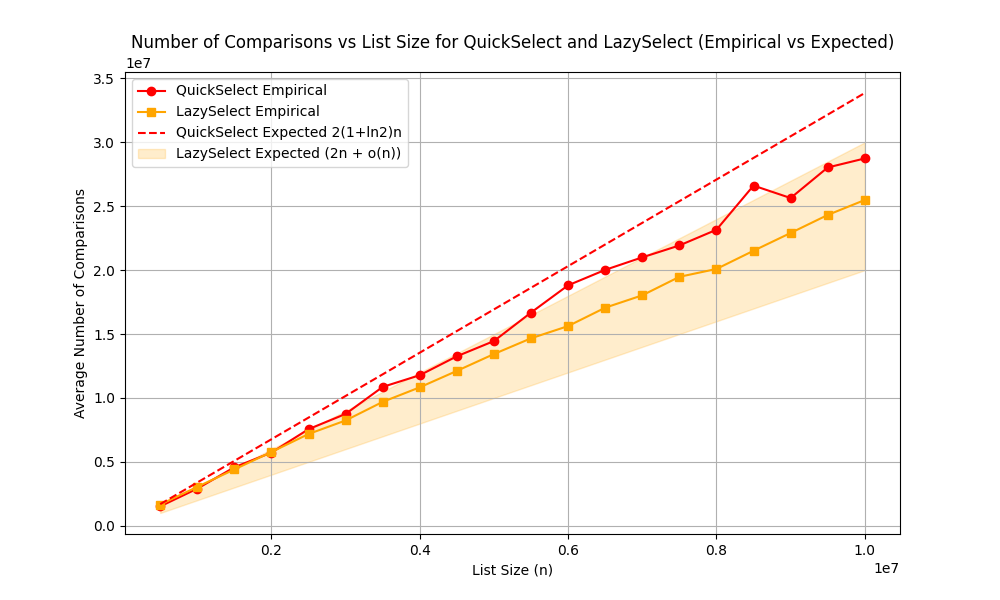
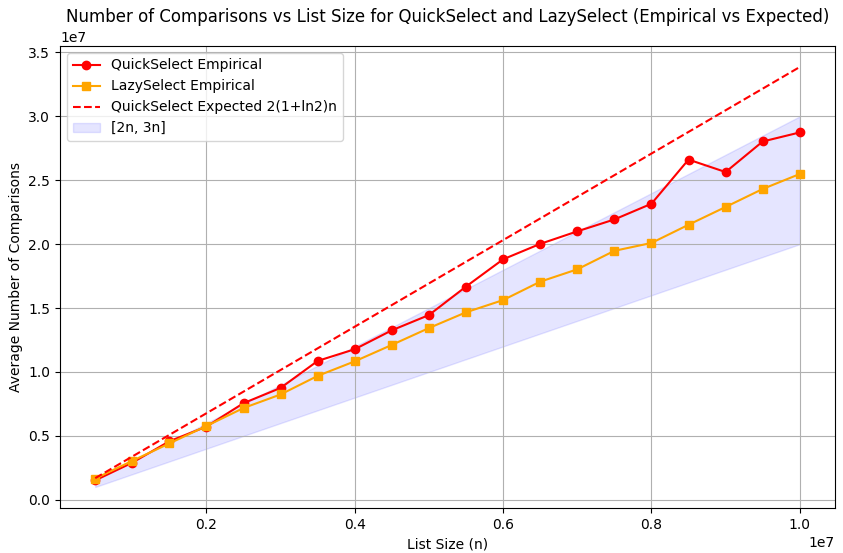
:bento: :sparkles:

diff --git a/assignment_1_selection/src/plot_k_comparisons.py b/assignment_1_selection/src/plot_k_comparisons.py
@@ -29,48 +29,48 @@ plt.figure(figsize=(10, 6))
 
 # QuickSelect area for standard deviation
 plt.fill_between(
-    k_values,
-    quickselect_lower_bound,
-    quickselect_upper_bound,
-    color="red",
-    alpha=0.2,
-    label="QuickSelect Standard Deviation Area",
+	k_values,
+	quickselect_lower_bound,
+	quickselect_upper_bound,
+	color="red",
+	alpha=0.2,
+	label="QuickSelect Standard Deviation Area",
 )
 
 # LazySelect area for standard deviation
 plt.fill_between(
-    k_values,
-    lazyselect_lower_bound,
-    lazyselect_upper_bound,
-    color="orange",
-    alpha=0.2,
-    label="LazySelect Standard Deviation Area",
+	k_values,
+	lazyselect_lower_bound,
+	lazyselect_upper_bound,
+	color="orange",
+	alpha=0.2,
+	label="LazySelect Standard Deviation Area",
 )
 
 # Plot mean comparisons for QuickSelect and LazySelect
 plt.plot(
-    k_values,
-    quickselect_avg_by_k.values,
-    label="QuickSelect Mean Comparisons",
-    marker="o",
-    color="red",
-    markersize=3,
-    linestyle="None",
+	k_values,
+	quickselect_avg_by_k.values,
+	label="QuickSelect Mean Comparisons",
+	marker="o",
+	color="red",
+	markersize=3,
+	linestyle="None",
 )
 plt.plot(
-    k_values,
-    lazyselect_avg_by_k.values,
-    label="LazySelect Mean Comparisons",
-    marker="o",
-    color="orange",
-    markersize=3,
-    linestyle="None",
+	k_values,
+	lazyselect_avg_by_k.values,
+	label="LazySelect Mean Comparisons",
+	marker="o",
+	color="orange",
+	markersize=3,
+	linestyle="None",
 )
 
 plt.xlabel("k")
 plt.ylabel("Mean Number of Comparisons")
 plt.title(
-    "Mean Comparisons per k for QuickSelect and LazySelect with Standard Deviation Area"
+	"Mean Comparisons per k for QuickSelect and LazySelect with Standard Deviation Area"
 )
 plt.legend()
 plt.grid(True)

diff --git a/assignment_1_selection/src/plot_comparisons.py b/assignment_1_selection/src/plot_comparisons.py
@@ -24,7 +24,7 @@ list_sizes = quickselect_avg.index
 # QuickSelect expected comparisons: 2(1 - ln(2))n
 quickselect_expected = quickselect_factor * list_sizes
 
-# LazySelect expected comparisons: [2n, 3n[
+# LazySelect expected comparisons
 lazyselect_expected_lower = 2 * list_sizes
 lazyselect_expected_upper = 3 * list_sizes
 
@@ -59,9 +59,9 @@ plt.fill_between(
     list_sizes,
     lazyselect_expected_lower,
     lazyselect_expected_upper,
-    color="orange",
-    alpha=0.2,
-    label="LazySelect Expected (2n + o(n))",
+    color="blue",
+    alpha=0.1,
+    label="[2n, 3n]",
 )
 
 # Add labels and title
